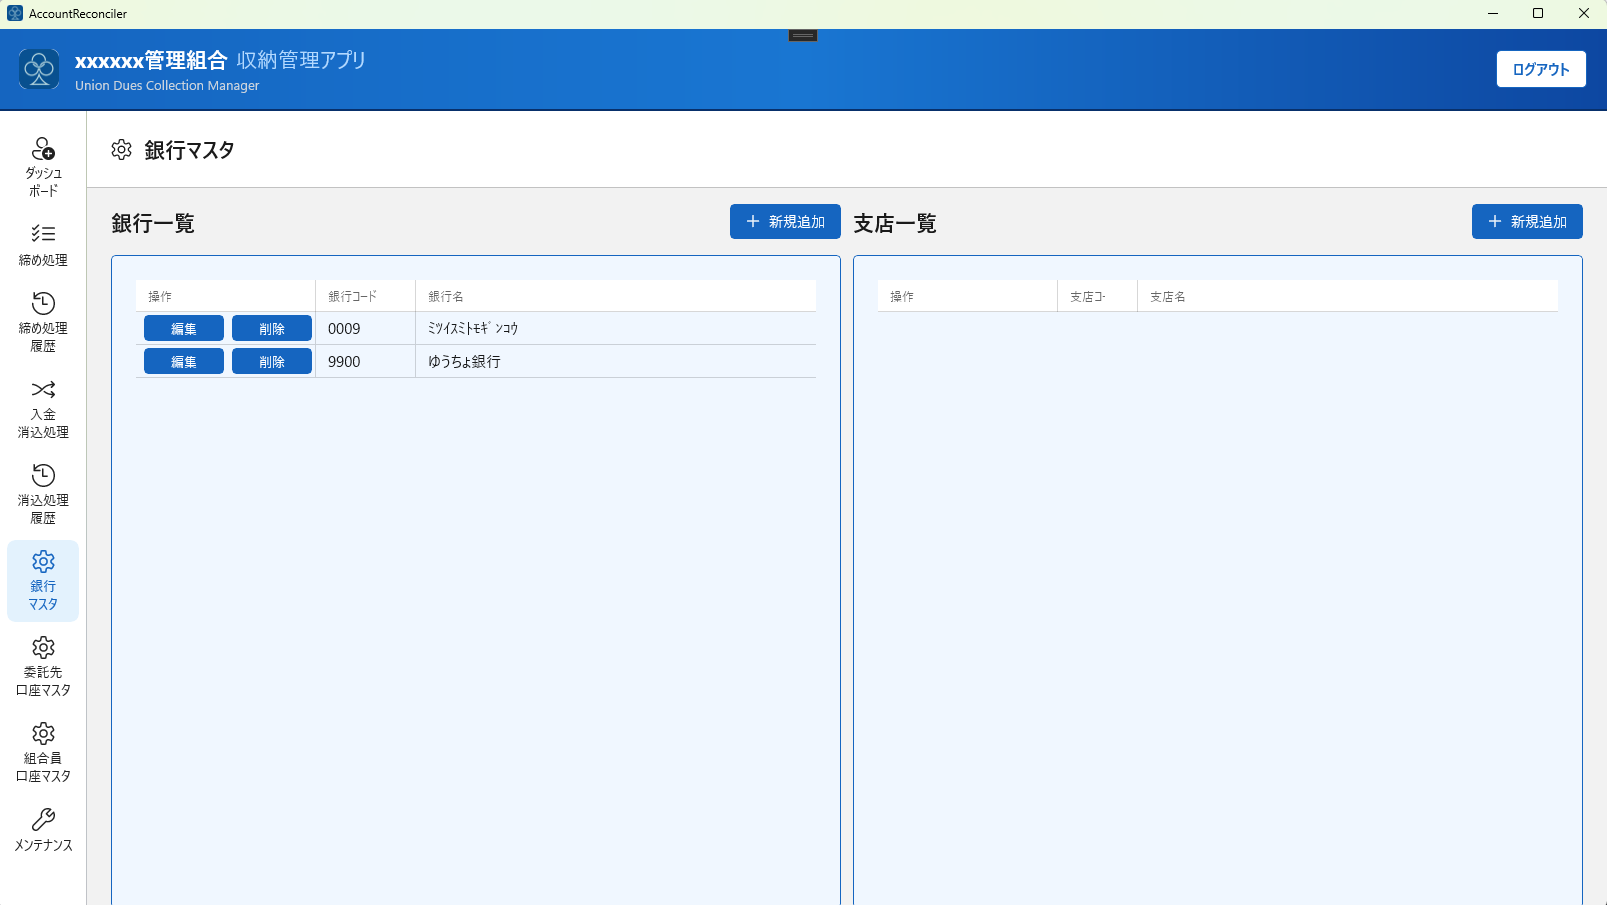
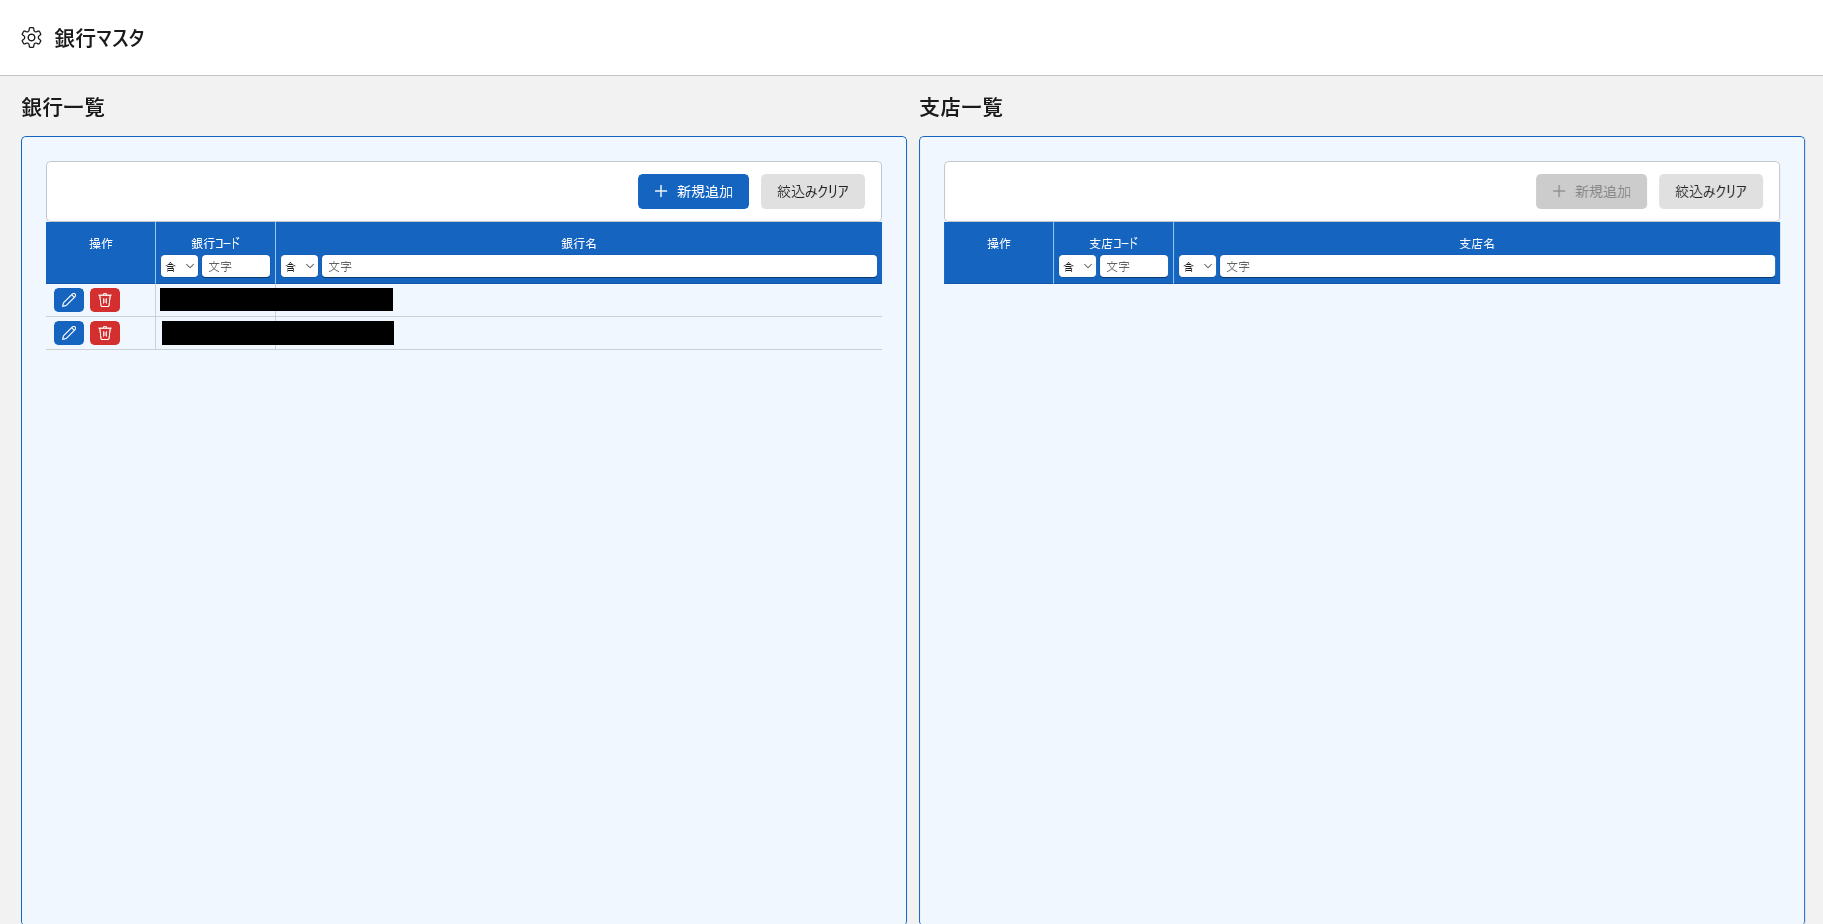
docs: マニュアルの画面写真を撮り直し、新しい写真を本文に入れる
- 運用マニュアルの画面写真を、いまのアプリの画面で撮り直した（個人情報は塗りつぶし）
- 新しい写真を入れた：一覧の絞り込み（1-7）、質問機能（1-8）、処理完了ダイアログ（3-4）、メンテナンス画面（6章）、APIトークンのセクション（システム管理 3-3）
- 画面上部の「マニュアル」ボタンの説明を足した（1-3、1-5）

diff --git a/運用マニュアル/01_overview.md b/運用マニュアル/01_overview.md
@@ -58,6 +58,7 @@
 | 画面名 | 用途 |
 |--------|------|
 | **メンテナンス** | バックアップ・リストア、文字サイズ、組織名・電話番号、全銀ファイルのコード区分、Kintoneドメインの設定（APIトークンの取り込みなどシステム管理者向けの設定も含む） |
+| **マニュアル**（画面上部のボタン） | この操作マニュアルのサイトをブラウザーで開く |
 | **質問する**（画面上部のボタン） | 操作方法を操作マニュアルに質問するチャット欄を開く（→ [1-8. 操作方法を質問する](#1-8-操作方法を質問する)） |
 
 > 以前の「設定」画面はサイドメニューからなくなりました。Kintoneドメインはメンテナンス画面で設定します（→ [6-5](06_maintenance.md#6-5-kintoneドメインの設定)）。
@@ -97,7 +98,8 @@
 - メニューのアイコンまたはラベルをクリックして切り替えます
 - 現在の画面はメニュー上でハイライト表示されます
 - メニューの項目は上から順に「ダッシュボード」「締め処理」「締め処理履歴」「入金消込処理」「消込処理履歴」「銀行マスタ」「委託先口座マスタ」「組合員口座マスタ」「メンテナンス」です
-- 画面上部（ヘッダー）の右側に **「質問する」** ボタンと **「ログアウト」** ボタンがあります
+- 画面上部（ヘッダー）の右側に **「マニュアル」** ボタン、**「質問する」** ボタン、**「ログアウト」** ボタンがあります
+- **「マニュアル」** ボタンをクリックすると、この操作マニュアルのサイトがブラウザーで開きます
 
 ---
 
@@ -132,6 +134,8 @@
 - 一覧の上の **「絞込みクリア」** ボタンで、すべての条件を消します
 - マスタ画面では、一覧の上に **「新規追加」** ボタンもあります
 
+![一覧の絞り込み（締め処理履歴の「対象月」で、チェックした月だけを表示している例）](images/01_overview_7_filter.png)
+
 ---
 
 ## 1-8. 操作方法を質問する
@@ -142,6 +146,8 @@
 2. 下の入力欄に質問を入力します（例：「締め処理のやり方を教えてください」「入金消込でエラーが出たときは？」）
 3. **「送信」** をクリックします（**Ctrl+Enter** でも送信できます）
 4. 10秒ほどで答えが表示されます。答えの下の **「マニュアルの該当箇所」** のリンクから、マニュアルの該当ページをブラウザーで開けます
+
+![質問機能（画面右側のチャット欄「マニュアルに質問」）](images/01_overview_8_chat.png)
 
 | 操作 | 内容 |
 |------|------|

diff --git a/システム管理マニュアル/03_kintone_config.md b/システム管理マニュアル/03_kintone_config.md
@@ -102,6 +102,9 @@ https://（ドメイン）.cybozu.com/k/（アプリID）/
 
 2. アプリにログインし、左側メニューから **「メンテナンス」** を開きます
 3. **「APIトークン」** セクションの **「ファイルから取り込む」** をクリックします
+
+![メンテナンス画面 - APIトークンのセクション](../運用マニュアル/images/06_maintenance_2_api_token.png)
+
 4. 作成した `kintone_api_tokens.json` を選択します
 5. 「APIトークンを取り込み、暗号化して保存しました。選択した元のファイルは削除してください。」と表示されたら、取り込み完了です
 6. 「状態:」が **「設定済み」** になったことを確認します

diff --git a/運用マニュアル/03_monthly_billing.md b/運用マニュアル/03_monthly_billing.md
@@ -160,6 +160,9 @@
 ### 処理完了ダイアログ
 
 処理完了ダイアログには、Kintoneへの登録件数（新規・更新）と、全銀ファイルの対象外にした件数が表示されます。
+
+![締め処理画面 - 処理完了ダイアログ](images/03_monthly_billing_4_completed.png)
+
 「保存した全銀ファイル」欄には、保存したファイルごとに次のボタンが表示されます。
 
 | ボタン | 内容 |

diff --git a/運用マニュアル/06_maintenance.md b/運用マニュアル/06_maintenance.md
@@ -3,6 +3,8 @@
 メンテナンス画面は、左側メニューの **「メンテナンス」** から開きます。
 各セクションで設定を変えたら、そのセクションの **「設定を保存」** をクリックして確定します。
 
+![メンテナンス画面（全銀ファイル・文字サイズ・Kintone設定のセクション）](images/06_maintenance_1.png)
+
 ---
 
 ## 6-1. バックアップ・PC移行
